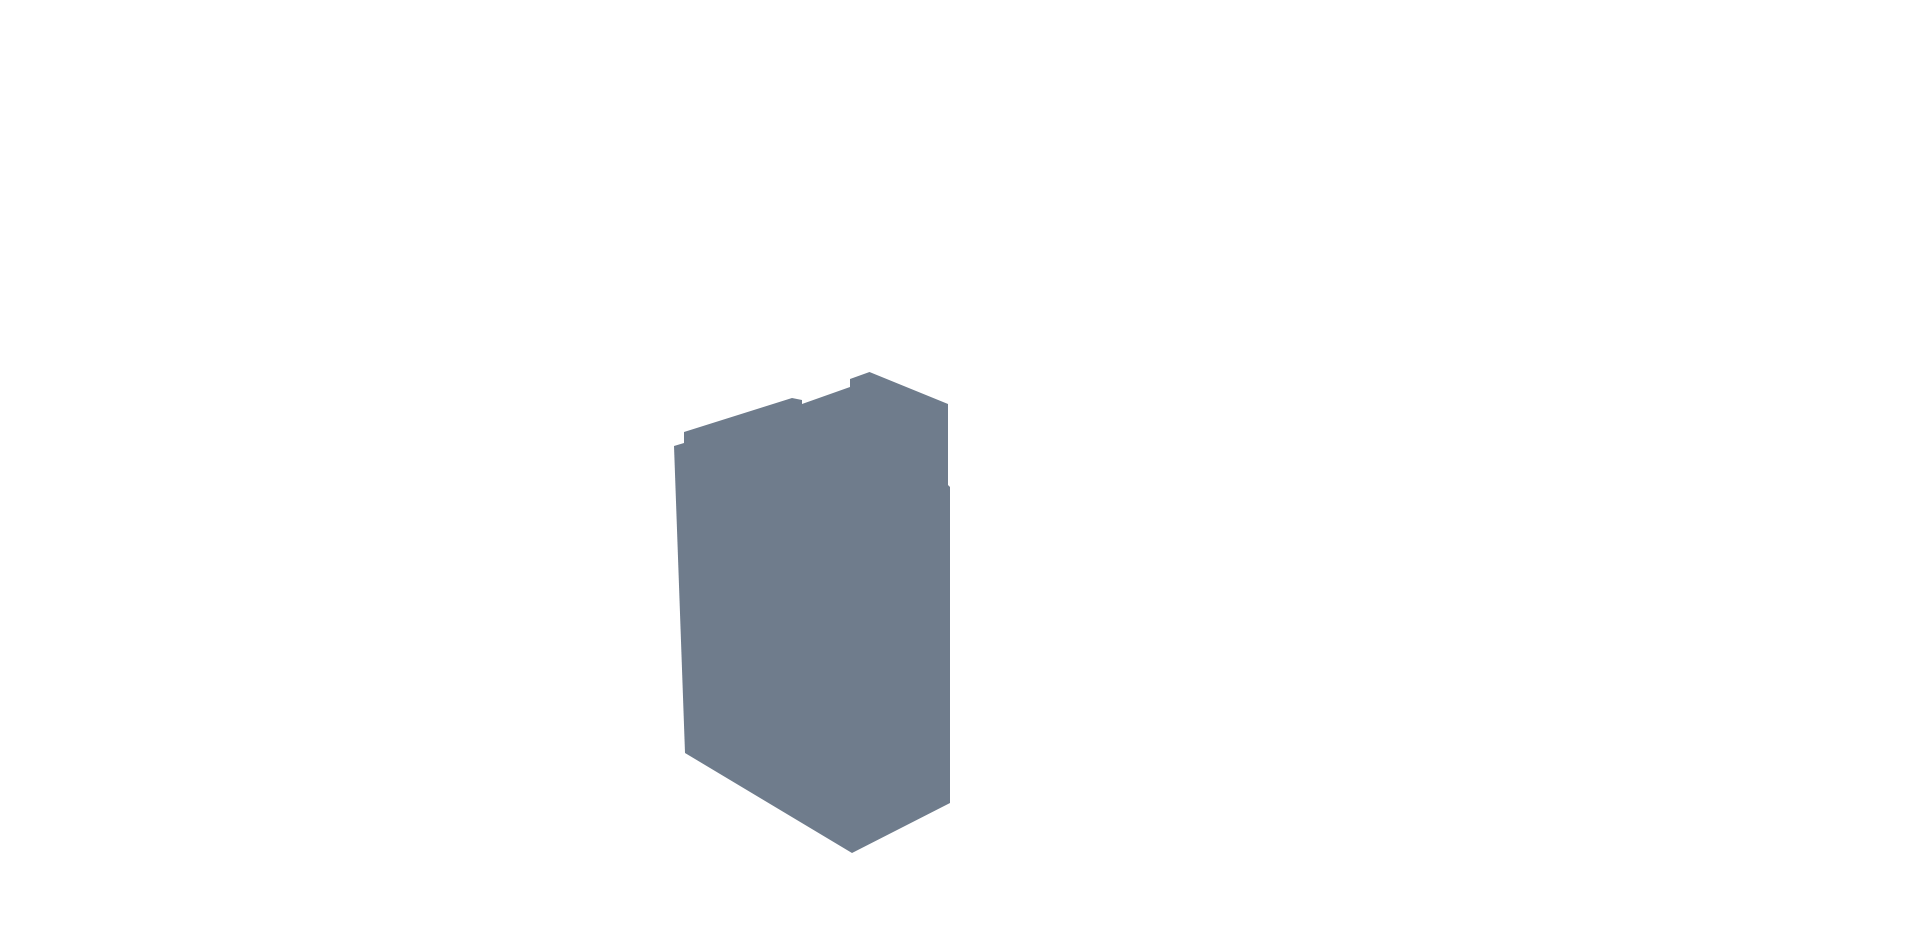
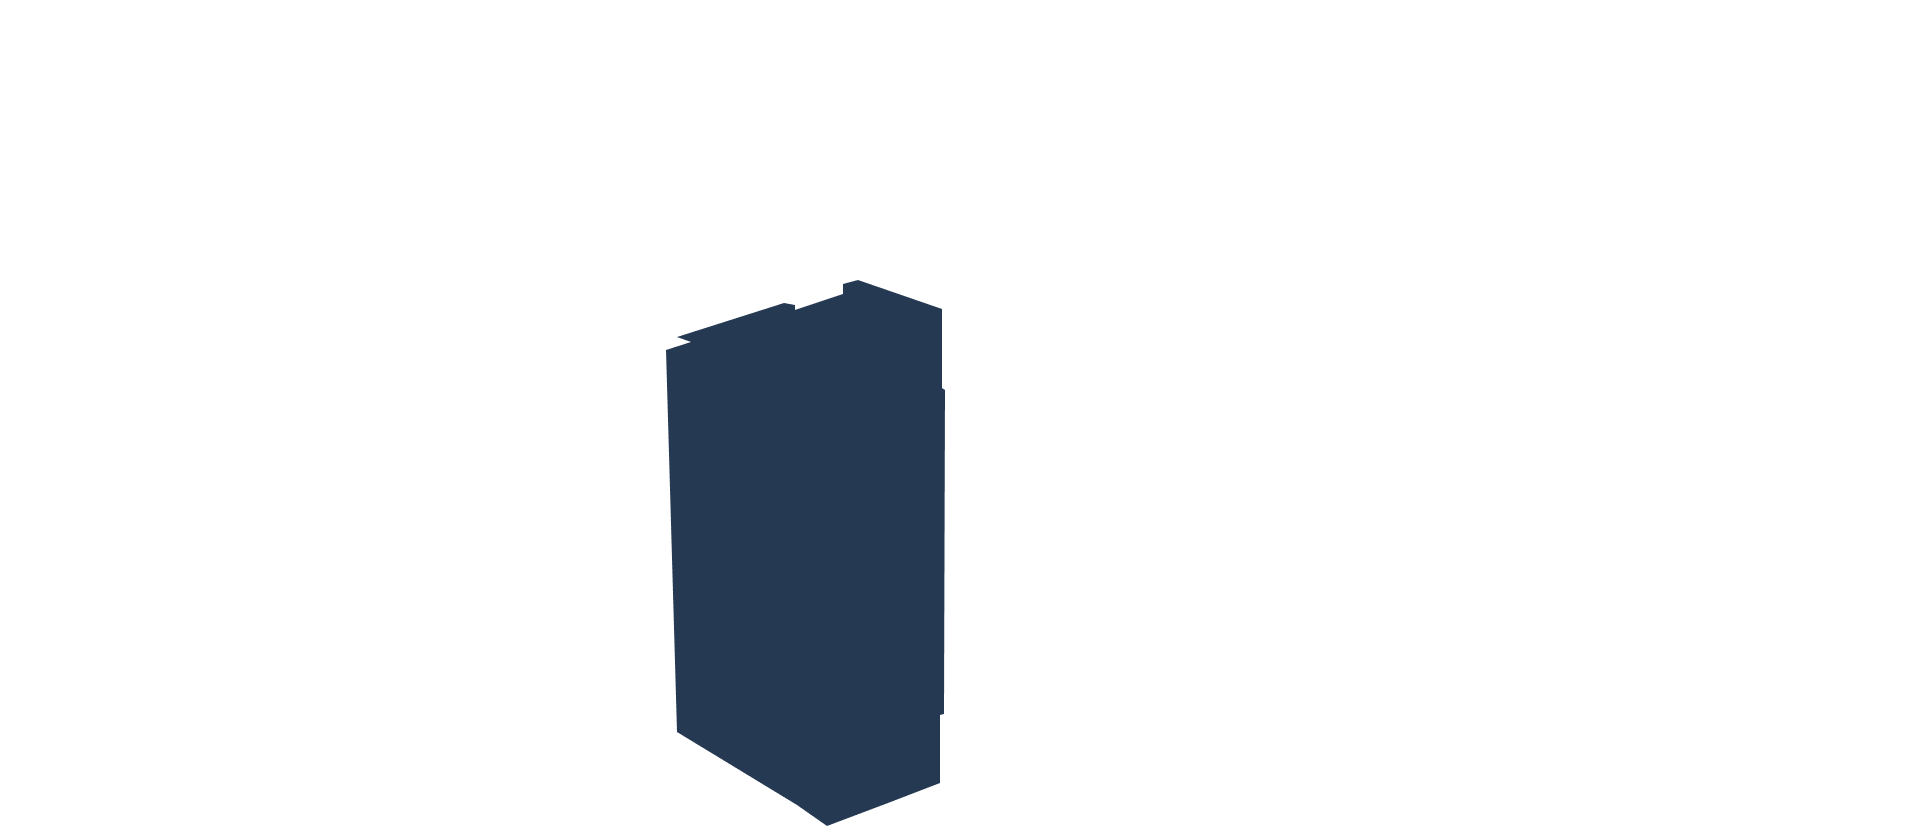
update visual in home-page

Changed region(s): [[0.3438, 0.3417, 0.5, 0.994]]

diff --git a/index.html b/index.html
@@ -235,14 +235,14 @@
             <div class="complex-plan_mask" id="complexMask"></div>
                 <img src="img/complex-plan-bg.jpg" alt="" class="complex-plan__img" usemap="#Map" id="qqqq">
                 <map name="Map">
-                    <area shape="poly" coords="676,433,913,360,991,387,991,680,950,800,850,850,685,756" href="#apartmentDescription"  id="corp1">
-                    <area shape="poly" coords="880,370,1105,302,1203,396,1200,683,1113,722,1012,729,987,396" href="#apartmentDescription" id="corp2">
-                    <area shape="poly" coords="1164,338,1100,300,1284,242,1339,280,1396,323,1381,588,1307,628,1215,644" href="#apartmentDescription"  id="corp3">
-                    <area shape="poly" coords="1336,273,1266,246,1362,216,1560,258,1541,512,1485,537,1388,560,1400,317" href="#apartmentDescription"  id="corp4">
-                    <area shape="poly" coords="361,302,463,280,690,382,693,422,665,431,681,681,611,710,381,574" href="#apartmentDescription"id="corp5">
-                    <area shape="poly" coords="588,333,588,247,676,228,910,315,910,355,832,378,704,409,697,373,594,362" href="#apartmentDescription" id="corp6">
-                    <area shape="poly" coords="785,261,785,198,863,182,1098,259,1098,291,1031,313,921,342,917,307" href="#apartmentDescription" id="corp7">
-                    <area shape="poly" coords="956,204,961,154,1029,136,1262,208,1265,235,1203,259,1104,291,1108,251," href="#apartmentDescription" id="corp8">
+                    <area shape="poly" coords="666,350,691,342,677,337,784,303,795,305,795,310,843,294,843,284,858,280,942,309,942,388,945,390,944,714,940,715,940,783,888,803,827,826,797,805,677,732" href="#apartmentDescription"  id="corp1">
+                    <area shape="poly" coords="858,280,1015,231,1025,233,1025,237,1064,224,1064,216,1075,213,1160,237,1159,289,1199,299,1191,595,1183,599,1183,658,1104,699,1060,684,940,744,940,715,944,714,945,390,942,388,942,309" href="#apartmentDescription" id="corp2">
+                    <area shape="poly" coords="1075,213,1210,171,1219,173,1219,176,1260,164,1323,182,1323,205,1328,205,1328,215,1393,229,1380,502,1373,506,1370,561,1305,597,1277,587,1183,634,1183,599,1191,595,1199,299,1159,289,1160,237" href="#apartmentDescription"  id="corp3">
+                    <area shape="poly" coords="1251,159,1324,137,1330,138,1330,142,1339,140,1339,136,1355,130,1395,138,1408,138,1408,143,1413,142,1419,148,1426,145,1483,155,1483,160,1496,162,1498,152,1503,145,1512,145,1515,150,1515,162,1556,169,1539,423,1533,428,1530,479,1473,508,1430,497,1372,528,1373,506,1380,502,1393,229,1328,215,1328,205,1323,205,1323,182,1260,164,1251,166" href="#apartmentDescription"  id="corp4">
+                    <area shape="poly" coords="357,212,362,211,362,204,379,204,388,208,397,206,401,203,404,197,410,412,460,190,559,230,559,235,566,238,576,237,694,284,694,331,677,337,691,342,666,350,676,691,656,700,627,685,609,692,376,544" href="#apartmentDescription"id="corp5">
+                    <area shape="poly" coords="586,159,592,157,592,153,603,150,613,154,626,152,626,147,630,144,632,147,634,146,637,148,674,139,914,220,914,262,843,284,843,294,795,310,795,305,784,303,694,331,694,284,588,241" href="#apartmentDescription" id="corp6">
+                    <area shape="poly" coords="782,111,789,109,789,105,799,102,803,104,812,102,818,103,821,99,830,102,858,94,962,125,962,127,972,130,979,130,979,130,1100,166,1100,205,1064,216,1064,224,1025,237,1025,233,1015,231,914,262,914,220,782,175" href="#apartmentDescription" id="corp7">
+                    <area shape="poly" coords="953,71,960,70,960,65,972,63,976,66,987,65,990,58,993,61,996,60,998,62,1021,56,1262,118,1262,155,1251,159,1251,166,1219,176,1219,173,1210,171,1100,205,1100,166,979,130,972,130,962,127,962,125,953,122" href="#apartmentDescription" id="corp8">
                 </map>
 
 

diff --git a/global-css/style.css b/global-css/style.css
@@ -301,7 +301,7 @@ body {
     margin-top: 45px;
 }
 .complex-plan {
-    height: 940px;
+    height: 837px;
     position: relative;
     overflow: hidden;
     max-width: 1920px;
@@ -545,6 +545,11 @@ map {
 .eight-modal {
     left: 1070px;
     top: 10px;
+}
+.eight-modal .complex-plan__modal_triangle {
+    left: -36px;
+    top: 45%;
+    transform: rotate(90deg);
 }
 /*конец стилей при наведении*/
 .complex-plan__apartment-description {
